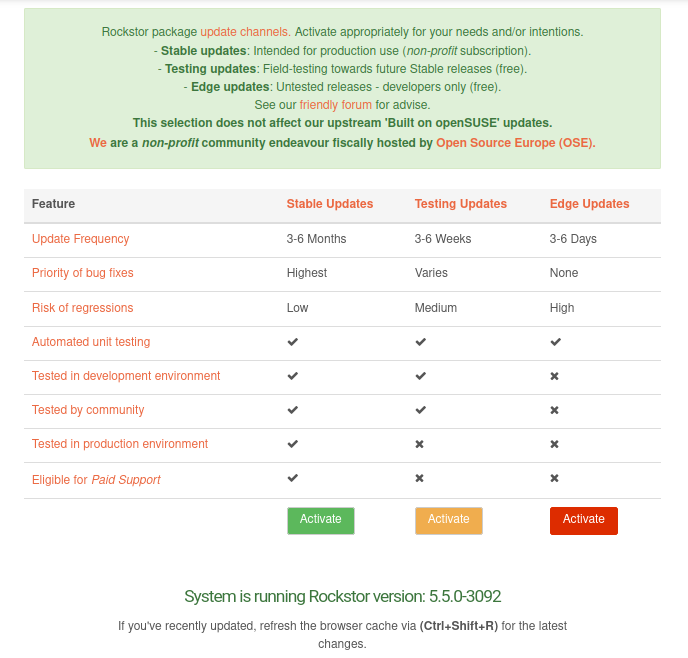
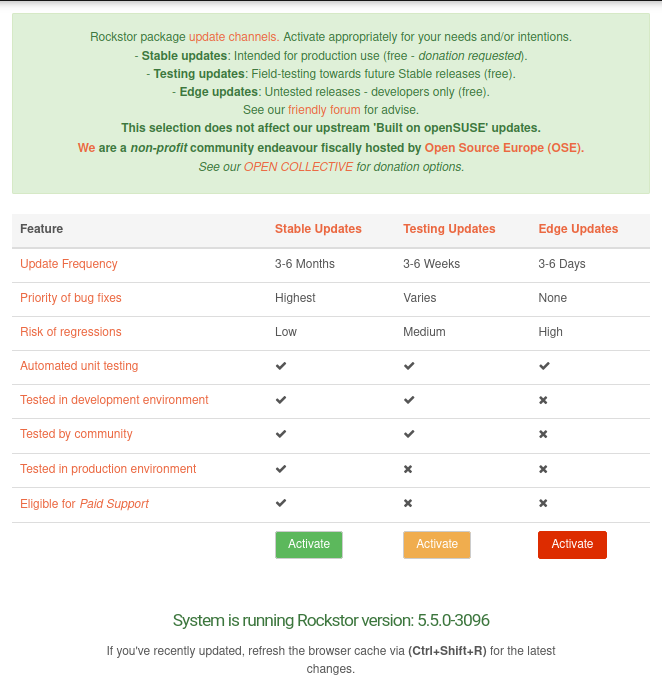
Adapt to our fiscal host's legacy tier removal #590
We are moving to a donations only tier set and thus
have the need to modify our docs regaring activating the
Stable Channel updates. Procedure related text and an
updated image are taken from the pending changes
within/against the testing branch.

# Includes
- Unrelated image update re testing activation: typo fixed.
- Minor existing typo fixed in text.

diff --git a/interface/system/update_channels.rst b/interface/system/update_channels.rst
@@ -32,7 +32,7 @@ As such, the 'rockstor' package is fully Open Source; there is no contributor ag
 everyone is encouraged to help in whatever way they can. It is very much
 developed in the open with key decisions made by the community and their
 interaction with Rockstor contributors and maintainers.
-See: `About US <https://rockstor.com/about-us.html>`_.
+See: `About Us <https://rockstor.com/about-us.html>`_.
 This flow of ideas and open development is held as a founding principal and is
 instantiated in the `Rockstor forum <https://forum.rockstor.com/>`_ and within
 the code issues currently `on GitHub <https://github.com/rockstor>`_.
@@ -47,6 +47,15 @@ Released in 2013, around 2 years later the sustainable nature was approached, an
 `community forum <https://forum.rockstor.com/t/would-you-pay-a-one-time-charge-for-stable-updates/448/21>`_.
 The consensus was to adopt a two-tiered updates model; Testing and Stable.
 Around 11 years later, during the 5.5.*-* testing phase, an addition third tier was added: Edge.
+And we re-adopted our original donations-only model from our earliest years.
+We hope that folks now understand non-profit endeavours like ours depend on fiscal support to survive.
+
+.. note::
+
+    As from Rockstor version 5.5.1-* testing, and 5.6.0-0 stable,
+    activating Stable Channel updates no longer requires a subscription to our non-profit Open Collective.
+    Do keep in mind that we are still trying for sustainability.
+    So do consider donating as every little helps. And little and often is good.
 
 ..  image:: /images/interface/system/update-channels//update_channel_options.png
     :width: 100%
@@ -128,31 +137,19 @@ The Stable channel will receive the highest attention with regard to bug fixes,
 whereas the Edge & Testing channels are focused on developing those fixes ready for production.
 Attention is also paid to avoiding regressions from one Stable update to the next.
 
-N.B. When re-installing on a different motherboard, or where the boards
-product_uuid is non unique, a different Appliance ID will result. This means
-the prior install's activation code will no longer work against the new Appliance ID.
-For these scenarios simply edit the Appliance ID on the relevant 'Computer' entry within
-`Appman (Appliance ID manager) <https://appman.rockstor.com/>`_.
+The Stable channel's activation has an associated request to donate via our non-profit Open Collective.
+If you would like for this project to persist, consider the request as presents.
+See also the qualifying 3rd party `Paid Support <https://rockstor.com/paid_support.html>`_ endeavour.
 
-Participation in the Stable channel is key to the sustainability of Rockstor's development.
-The ability to continue to improve and provide advanced file system facilities made easy,
-is dependant on a financial component.
-The Stable channel's associated non-profit subscription is that financial component.
-See also the qualifying but as-yet pending `Paid Support <https://rockstor.com/paid_support.html>`_ option.
-
-For the current cost of a **Stable Updates subscription membership**,
-see our `Open Collective non-profit <https://opencollective.com/the-rockstor-project>`_.
+.. note::
+    A donation to our `Open Collective non-profit <https://opencollective.com/the-rockstor-project>`_ is requested,
+    **but not required**. Our sustainability depends on donations.
 
 ..  image:: /images/interface/system/update-channels//activate_stable_channel.png
     :width: 100%
     :align: center
 
-In Web-UI dialog indicating the steps to activating Stable Updates.
-
-.. _free_stable:
-
-`Rockstor project repositories <https://github.com/rockstor>`_ contributors
-qualify for up to 3 personal use activation codes.
+In Web-UI info/confirmation dialog.
 
 .. _auto_updates:
 